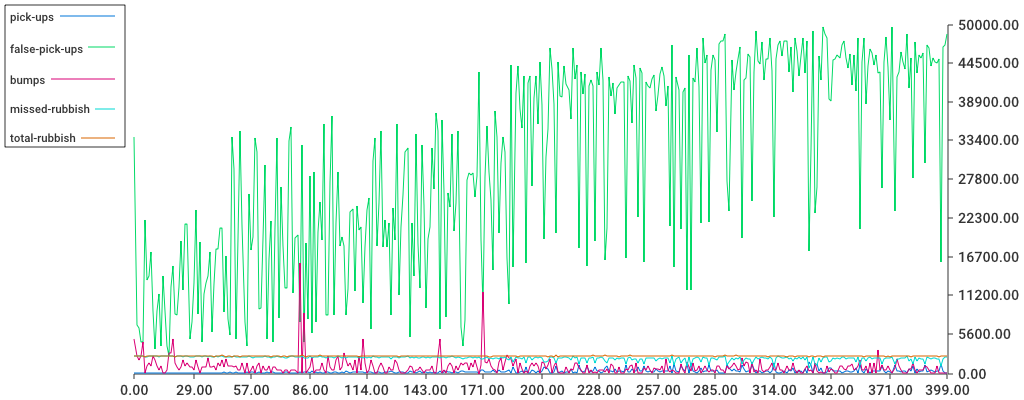
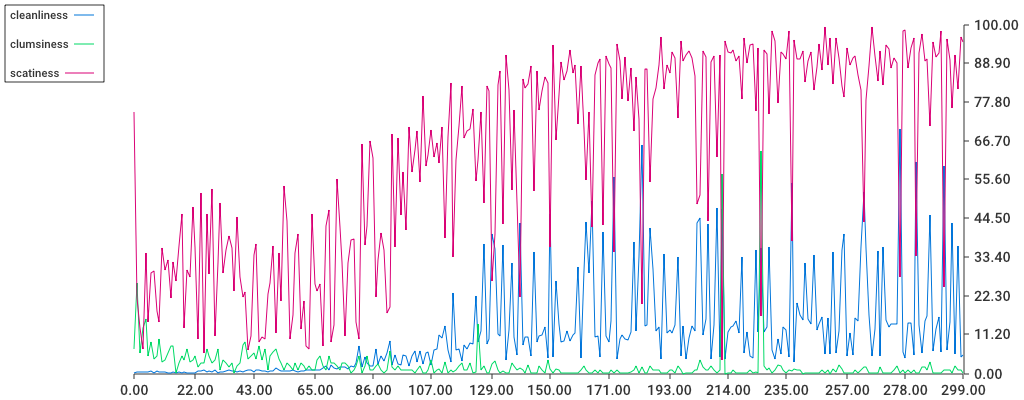
general updates

diff --git a/stats/stats.go b/stats/stats.go
@@ -13,37 +13,60 @@ import (
 // Stats is a struct that tracks the statistics of one Robbie out of every
 // generation.
 type Stats struct {
-	scores        []float64
-	pickUps       []float64
-	falsePickUps  []float64
-	bumps         []float64
-	missedRubbish []float64
-	totalRubbish  []float64
-	numGenes      map[robbie.Gene][]float64
+	totalMoves  int
+	reward      int
+	minScore    int
+	scores      []float64
+	achievement []float64
+	cleanliness []float64
+	clumsiness  []float64
+	scatiness   []float64
+	// pickUps       []float64
+	// falsePickUps []float64
+	// bumps        []float64
+	// missedRubbish []float64
+	// totalRubbish  []float64
+	numGenes map[robbie.Gene][]float64
 }
 
 // New returns a new and empty Stats object.
-func New() *Stats {
+func New(totalMoves int, pickUpReward, pickUpPenalty, bumpPenalty int) *Stats {
+	min := pickUpPenalty
+	if bumpPenalty > pickUpPenalty {
+		min = bumpPenalty
+	}
 	return &Stats{
-		scores:        make([]float64, 0),
-		pickUps:       make([]float64, 0),
-		falsePickUps:  make([]float64, 0),
-		bumps:         make([]float64, 0),
-		missedRubbish: make([]float64, 0),
-		totalRubbish:  make([]float64, 0),
-		numGenes:      make(map[robbie.Gene][]float64, 0),
+		totalMoves:  totalMoves,
+		reward:      pickUpReward,
+		minScore:    min * totalMoves,
+		scores:      make([]float64, 0),
+		cleanliness: make([]float64, 0),
+		clumsiness:  make([]float64, 0),
+		scatiness:   make([]float64, 0),
+		achievement: make([]float64, 0),
+		// pickUps:       make([]float64, 0),
+		// falsePickUps: make([]float64, 0),
+		// bumps:        make([]float64, 0),
+		// missedRubbish: make([]float64, 0),
+		// totalRubbish:  make([]float64, 0),
+		numGenes: make(map[robbie.Gene][]float64, 0),
 	}
 }
 
 // Add adds the given Robbie to the statistics. It is assumed only one Robbie
 // from each generation will be added to a single Stats object.
 func (s *Stats) Add(r *robbie.Robbie) {
+	scoreRange := float64(s.reward*r.TotalRubbish) + float64(s.minScore)
 	s.scores = append(s.scores, float64(r.Score))
-	s.pickUps = append(s.pickUps, float64(r.PickUps))
-	s.falsePickUps = append(s.falsePickUps, float64(r.FalsePickUps))
-	s.bumps = append(s.bumps, float64(r.Bumps))
-	s.missedRubbish = append(s.missedRubbish, float64(r.MissedRubbish))
-	s.totalRubbish = append(s.totalRubbish, float64(r.TotalRubbish))
+	s.achievement = append(s.achievement, 100.0*((float64(r.Score)+float64(s.minScore))/scoreRange))
+	s.cleanliness = append(s.cleanliness, 100.0*float64(r.PickUps)/float64(r.TotalRubbish))
+	s.clumsiness = append(s.clumsiness, 100.0*float64(r.Bumps)/float64(s.totalMoves))
+	s.scatiness = append(s.scatiness, 100.0*float64(r.FalsePickUps)/float64(s.totalMoves))
+	// s.pickUps = append(s.pickUps, float64(r.PickUps))
+	// s.falsePickUps = append(s.falsePickUps, float64(r.FalsePickUps))
+	// s.bumps = append(s.bumps, float64(r.Bumps))
+	// s.missedRubbish = append(s.missedRubbish, float64(r.MissedRubbish))
+	// s.totalRubbish = append(s.totalRubbish, float64(r.TotalRubbish))
 	counters := make(map[robbie.Gene]float64)
 	for _, g := range r.Genome {
 		if _, ok := counters[g]; !ok {
@@ -58,40 +81,40 @@ func (s *Stats) Add(r *robbie.Robbie) {
 }
 
 // GetScoreChart saves the Stats score chart to the filename.
-func (s *Stats) GetScoreChart(filename string) error {
-	xaxis := seq.Range(0.0, float64(len(s.scores)-1))
-	score := chart.Chart{
-		XAxis: chart.XAxis{
-			Style: chart.StyleShow(),
-		},
-		YAxis: chart.YAxis{
-			Style: chart.StyleShow(),
-		},
-		Background: chart.Style{
-			Padding: chart.Box{
-				Top:  20,
-				Left: 120,
-			},
-		},
-		Series: []chart.Series{
-			chart.ContinuousSeries{
-				Name:    "score",
-				XValues: xaxis,
-				YValues: s.scores,
-			},
-			chart.ContinuousSeries{
-				Name:    "missed-rubbish",
-				XValues: xaxis,
-				YValues: s.missedRubbish,
-			},
-		},
-	}
-	score.Elements = []chart.Renderable{
-		chart.LegendLeft(&score),
-	}
+// func (s *Stats) GetScoreChart(filename string) error {
+// 	xaxis := seq.Range(0.0, float64(len(s.scores)-1))
+// 	score := chart.Chart{
+// 		XAxis: chart.XAxis{
+// 			Style: chart.StyleShow(),
+// 		},
+// 		YAxis: chart.YAxis{
+// 			Style: chart.StyleShow(),
+// 		},
+// 		Background: chart.Style{
+// 			Padding: chart.Box{
+// 				Top:  20,
+// 				Left: 120,
+// 			},
+// 		},
+// 		Series: []chart.Series{
+// 			chart.ContinuousSeries{
+// 				Name:    "score",
+// 				XValues: xaxis,
+// 				YValues: s.scores,
+// 			},
+// 			chart.ContinuousSeries{
+// 				Name:    "missed-rubbish",
+// 				XValues: xaxis,
+// 				YValues: s.missedRubbish,
+// 			},
+// 		},
+// 	}
+// 	score.Elements = []chart.Renderable{
+// 		chart.LegendLeft(&score),
+// 	}
 
-	return writeChart(filename, score)
-}
+// 	return writeChart(filename, score)
+// }
 
 // GetGenomeChart saves the Stats genome chart to the filename.
 func (s *Stats) GetGenomeChart(filename string) error {
@@ -224,30 +247,50 @@ func (s *Stats) GetCountersChart(filename string) error {
 		},
 		Series: []chart.Series{
 			chart.ContinuousSeries{
-				Name:    "pick-ups",
+				Name:    "cleanliness",
 				XValues: xaxis,
-				YValues: s.pickUps,
+				YValues: s.cleanliness,
 			},
 			chart.ContinuousSeries{
-				Name:    "false-pick-ups",
+				Name:    "clumsiness",
 				XValues: xaxis,
-				YValues: s.falsePickUps,
+				YValues: s.clumsiness,
 			},
 			chart.ContinuousSeries{
-				Name:    "bumps",
+				Name:    "scatiness",
 				XValues: xaxis,
-				YValues: s.bumps,
+				YValues: s.scatiness,
 			},
 			chart.ContinuousSeries{
-				Name:    "missed-rubbish",
+				Name:    "achievement",
 				XValues: xaxis,
-				YValues: s.missedRubbish,
+				YValues: s.achievement,
 			},
-			chart.ContinuousSeries{
-				Name:    "total-rubbish",
-				XValues: xaxis,
-				YValues: s.totalRubbish,
-			},
+			// chart.ContinuousSeries{
+			// 	Name:    "pick-ups",
+			// 	XValues: xaxis,
+			// 	YValues: s.pickUps,
+			// },
+			// chart.ContinuousSeries{
+			// 	Name:    "false-pick-ups",
+			// 	XValues: xaxis,
+			// 	YValues: s.falsePickUps,
+			// },
+			// chart.ContinuousSeries{
+			// 	Name:    "bumps",
+			// 	XValues: xaxis,
+			// 	YValues: s.bumps,
+			// },
+			// chart.ContinuousSeries{
+			// 	Name:    "missed-rubbish",
+			// 	XValues: xaxis,
+			// 	YValues: s.missedRubbish,
+			// },
+			// chart.ContinuousSeries{
+			// 	Name:    "total-rubbish",
+			// 	XValues: xaxis,
+			// 	YValues: s.totalRubbish,
+			// },
 		},
 	}
 	counters.Elements = []chart.Renderable{

diff --git a/main.go b/main.go
@@ -37,8 +37,8 @@ func init() {
 
 func evolve() {
 	gen := robbie.FirstGeneration(generationSize, int(math.Pow(3, 5)))
-	alphas := stats.New()
-	runts := stats.New()
+	alphas := stats.New(maxMoves*maxGames, pickUpReward, pickUpPenalty, bumpPenalty)
+	runts := stats.New(maxMoves*maxGames, pickUpReward, pickUpPenalty, bumpPenalty)
 	for i := 0; i < maxGenerations; i++ {
 		var wg sync.WaitGroup
 		for _, r := range gen.Robbies {
@@ -60,18 +60,18 @@ func evolve() {
 		gen = gen.NextGeneration(numberOfParents, chanceOfMutation)
 	}
 
-	if err := alphas.GetScoreChart(fmt.Sprintf("%s-alpha-scores.png", outputFile)); err != nil {
-		log.Println(err)
-	}
+	// if err := alphas.GetScoreChart(fmt.Sprintf("%s-alpha-scores.png", outputFile)); err != nil {
+	// 	log.Println(err)
+	// }
 	if err := alphas.GetCountersChart(fmt.Sprintf("%s-alpha-counters.png", outputFile)); err != nil {
 		log.Println(err)
 	}
 	if err := alphas.GetGenomeChart(fmt.Sprintf("%s-alpha-genome.png", outputFile)); err != nil {
 		log.Println(err)
 	}
-	if err := runts.GetScoreChart(fmt.Sprintf("%s-runt-scores.png", outputFile)); err != nil {
-		log.Println(err)
-	}
+	// if err := runts.GetScoreChart(fmt.Sprintf("%s-runt-scores.png", outputFile)); err != nil {
+	// 	log.Println(err)
+	// }
 	if err := runts.GetCountersChart(fmt.Sprintf("%s-runt-counters.png", outputFile)); err != nil {
 		log.Println(err)
 	}
@@ -81,8 +81,8 @@ func evolve() {
 }
 
 func parseFlags() error {
-	flag.IntVar(&pickUpReward, "pick-up-reward", 10, "the reward for picking up rubbish")
-	flag.IntVar(&pickUpPenalty, "pick-up-penalty", 5, "the penalty for picking up rubbish where there is none")
+	flag.IntVar(&pickUpReward, "pick-up-reward", 2, "the reward for picking up rubbish")
+	flag.IntVar(&pickUpPenalty, "pick-up-penalty", 1, "the penalty for picking up rubbish where there is none")
 	flag.IntVar(&bumpPenalty, "wall-bump-penalty", 1, "the penalty for bumping into a wall")
 	flag.IntVar(&maxMoves, "max-moves", 500, "the number of moves in a game")
 	flag.Float64Var(&chanceOfRubbish, "chance-of-rubbish", 0.25, "the chance of any given cell being initialised with rubbish")
@@ -90,7 +90,7 @@ func parseFlags() error {
 	flag.IntVar(&gridSize, "grid-size", 10, "the size of one side of the square gird (not including walls)")
 	flag.IntVar(&generationSize, "generation-size", 200, "the number of Robbies per generation")
 	flag.IntVar(&numberOfParents, "parents", 2, "the number of parents required to create an offspring")
-	flag.IntVar(&maxGenerations, "max-generations", 400, "the maximum number of generations to evolve over")
+	flag.IntVar(&maxGenerations, "max-generations", 300, "the maximum number of generations to evolve over")
 	flag.IntVar(&maxGames, "max-games", 100, "the maximum number of games each Robbie will play")
 	flag.StringVar(&outputFile, "output-file", "chart", "the name of the resulting file (no extension)")
 	flag.Parse()
